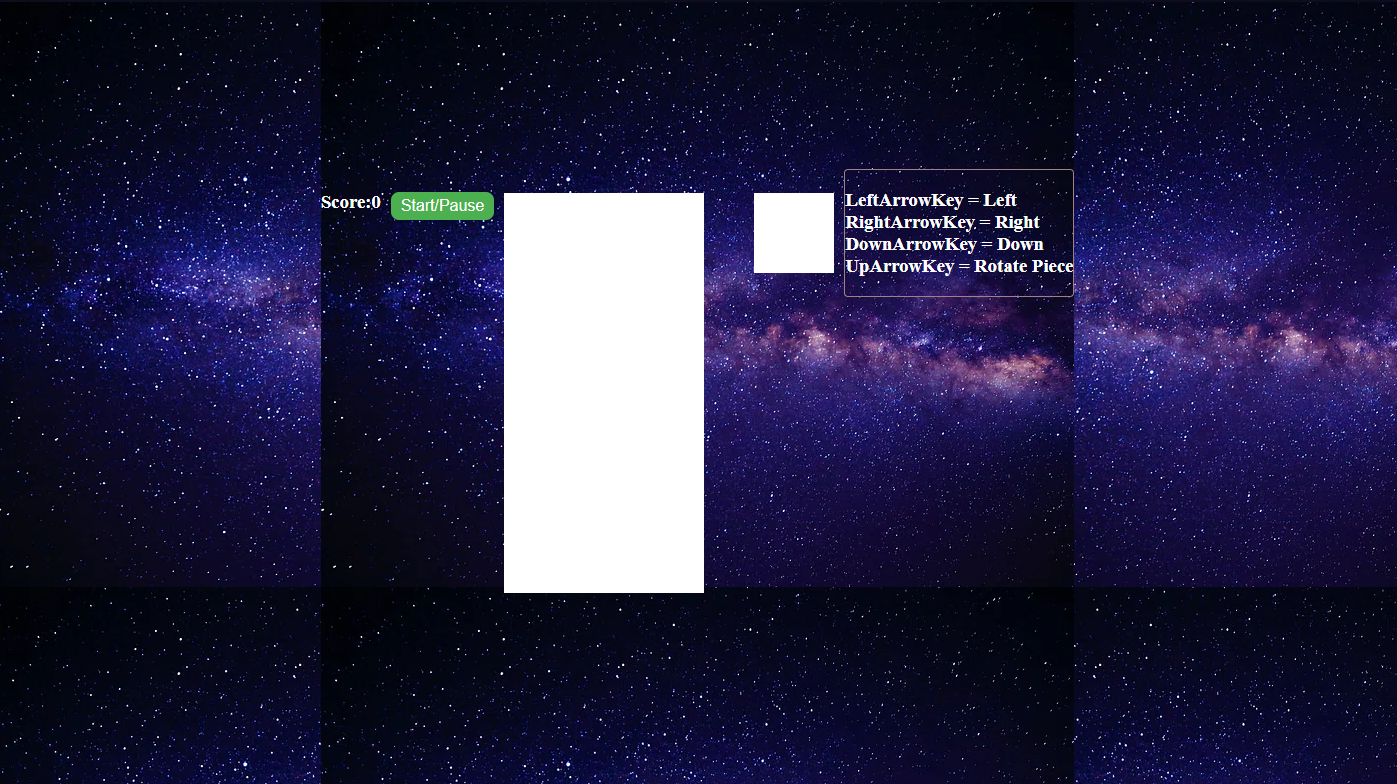
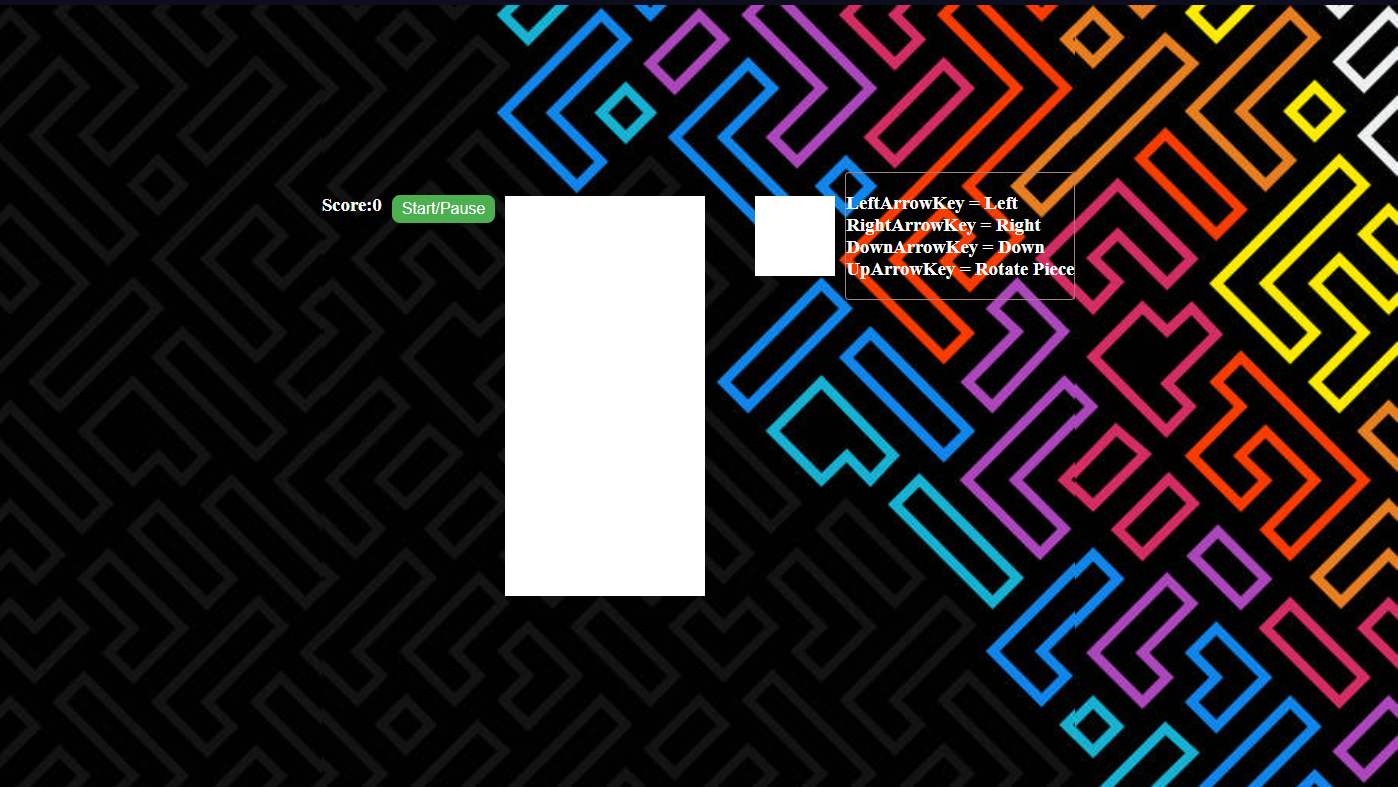
changes on the background cus it was ugly now it's less bad

diff --git a/styles.css b/styles.css
@@ -1,8 +1,7 @@
 body {
-  background-image: url("./assets/imgs/galaxyBack.webp");
+  background-image: url("./assets/imgs/galaxyBack1024x768.jpg");
   background-color: #000;
   background-size: cover;
-  background-position: center;
   margin: 0;
   padding: 0;
 }
